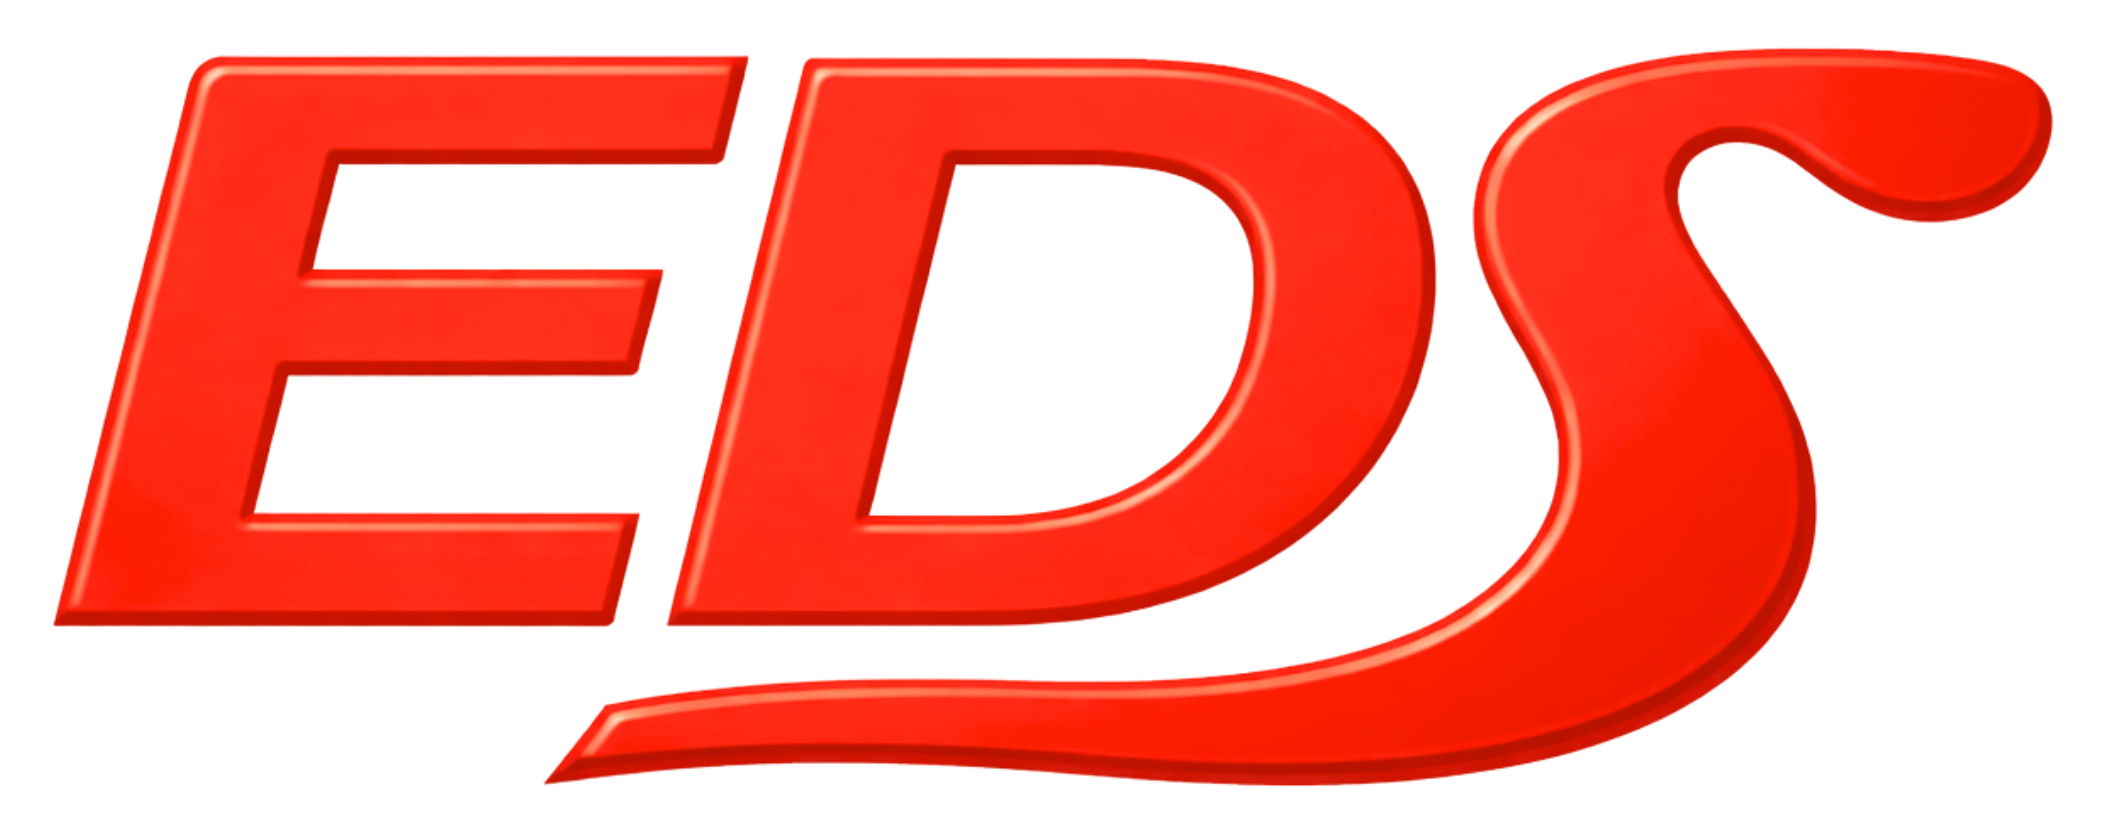
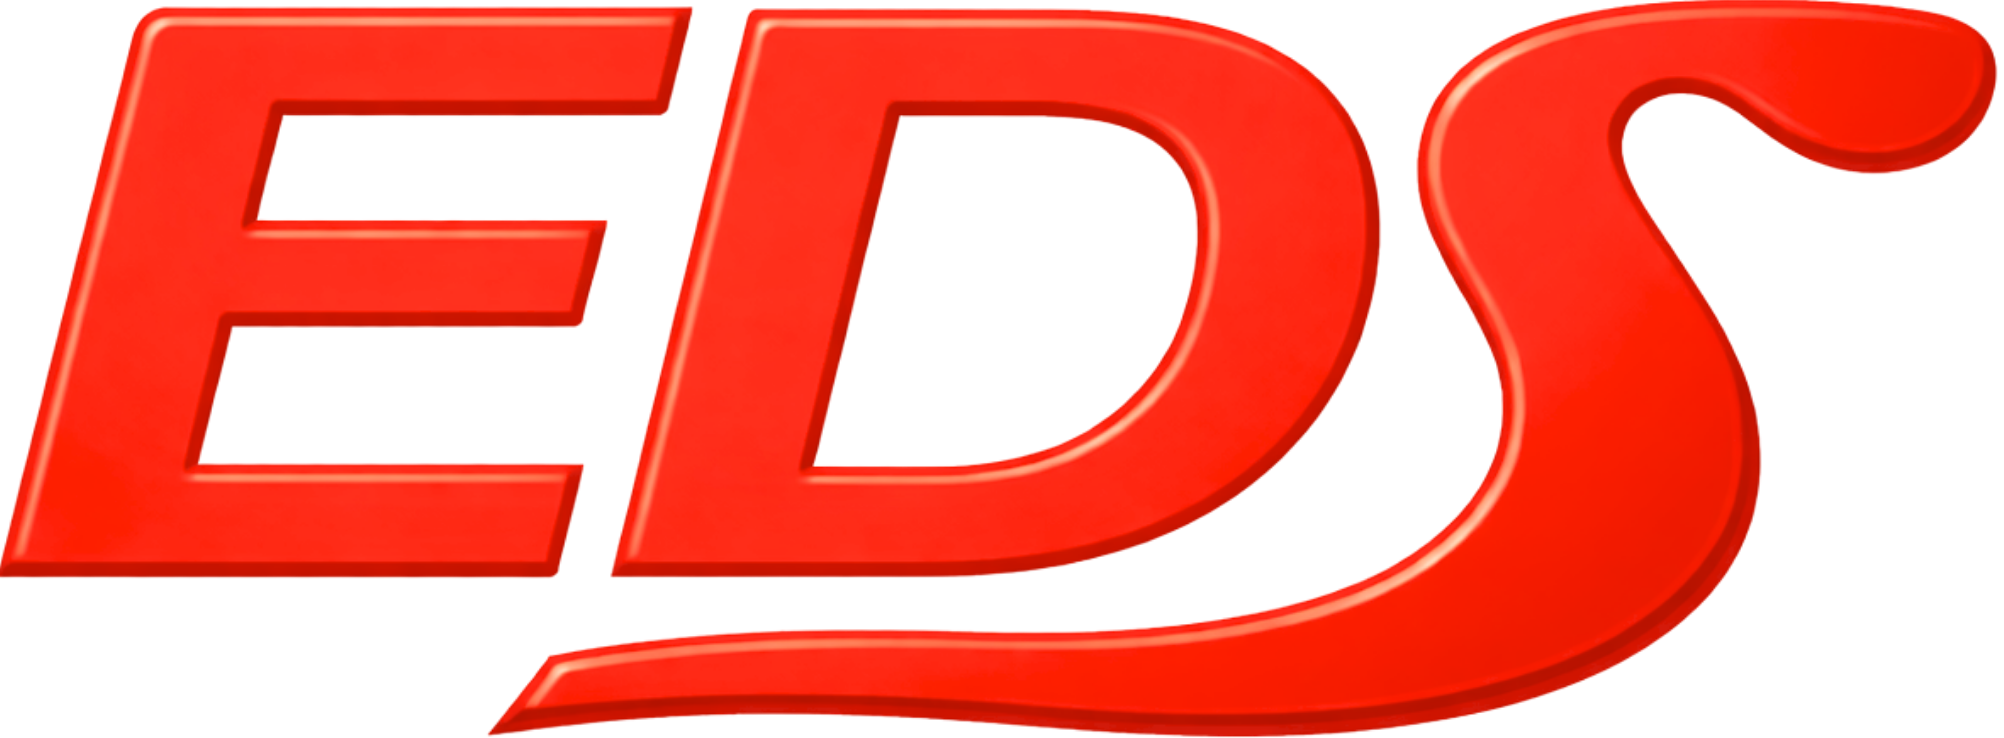
Actualizamos el ticket para que se viera la imagen nueva y las letras pequeñas

diff --git a/resources/views/pdf/ticket.blade.php b/resources/views/pdf/ticket.blade.php
@@ -69,11 +69,12 @@
         }
         
         .img-logo{
-            width: 65%;
+            width: 45%;
         }
 
         .boleto-titulo{
-            font-size: 15px;
+            font-size: 10px;
+            color: #555;
         }
 
         .nombre-psj{
@@ -95,7 +96,9 @@
             </div>
             
             <div class="card-body">
-                <img src="{{ public_path('img/enlaces_logo.jpeg') }}" class="img-logo" alt="">
+                {{-- <img src="{{ public_path('img/enlaces_logo.jpeg') }}" class="img-logo" alt=""> --}}
+                <br>
+                <img src="{{ public_path('img/transport.png') }}" class="img-logo" alt="">
                 <h5 class="boleto-titulo">SAN CRISTOBAL DE LAS CASAS, CHIAPAS</h5>
                 <h2 class="boleto-no">BOLETO No. #{{ $boleto['id'] }}</h2>                
                 
@@ -103,7 +106,8 @@
                 
                 
                 <div class="route-info">
-                    <!-- {{-- &rarr;  --}} -->{{ $boleto['destino'] }}<br>
+                    <!-- {{-- &rarr;  --}} -->{{-- {{ $boleto['destino'] }} --}}
+                    EDS Transport<br>
                     {{ $boleto['fecha'] }}<br>
                     {{ $boleto['horario'] }}<br>
                     Abordaje: {{ $boleto['zona'] }}

diff --git a/resources/views/pdf/ticketViaje.blade.php b/resources/views/pdf/ticketViaje.blade.php
@@ -73,7 +73,7 @@
         }
 
         .boleto-titulo{
-            font-size: 15px;
+            font-size: 10px;
         }
 
         .nombre-psj{
@@ -92,7 +92,8 @@
             </div>
             
             <div class="card-body">
-                <img src="{{ public_path('img/enlaces_logo.jpeg') }}" class="img-logo" alt="">
+                {{-- <img src="{{ public_path('img/enlaces_logo.jpeg') }}" class="img-logo" alt=""> --}}
+                <img src="{{ public_path('img/transport.png') }}" class="img-logo" alt="">
                 <h5 class="boleto-titulo">SAN CRISTOBAL DE LAS CASAS, CHIAPAS</h5>
                 <h2 class="boleto-no">VIAJE No. #{{ $ticket['id'] }}</h2>                
                 
